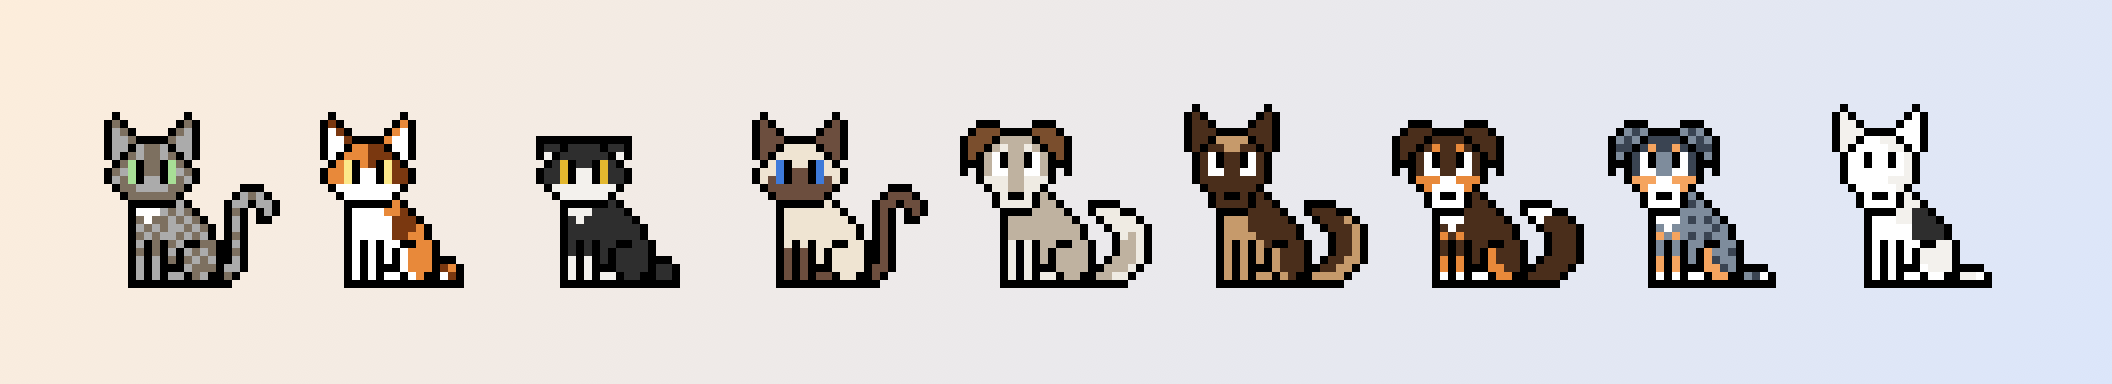
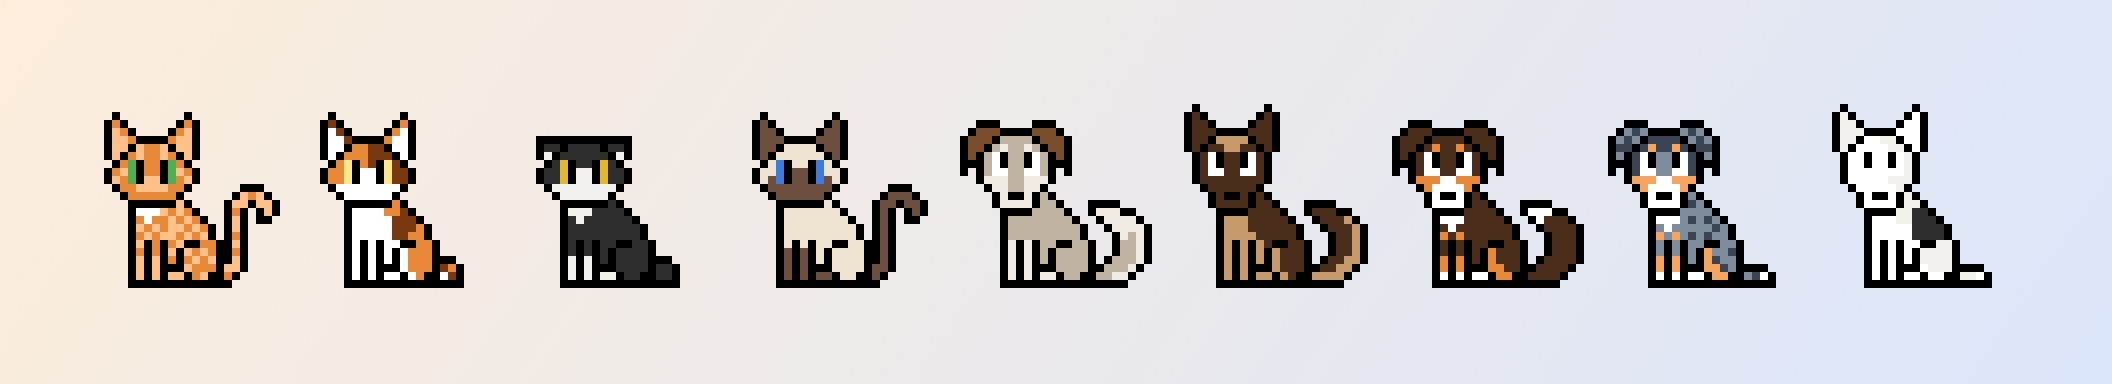
Screenshots: put an orange tabby first in the pet lineup

Changed region(s): [[0.0312, 0.3125, 0.1562, 0.75]]

diff --git a/CLAUDE.md b/CLAUDE.md
@@ -46,7 +46,7 @@ The agent has no Screen Recording permission, so the app has test launch argumen
   - `~/Library/Application Support/DesktopPet/Clipboard/`
 - Only write defaults (`defaults write com.nataliewiese.DesktopPet …`) while the app is **not running**, or the running app overwrites them.
 - Her current settings: Military time **off** (as of 2026-10-07; check before assuming).
-- Topsy's look (as of 2026-10-12). She's the first pet in `screenshots/pets.png`. Put her back after changing pets for screenshots:
+- Topsy's look (as of 2026-10-12). She was the first pet in `screenshots/pets.png` until an orange tabby replaced her. Put her back after changing pets for screenshots:
   - name `Topsy`, scale `4`
   - `character` and `character.cat` = `tortie.up-long` (cat, shape 1/4 "up-long", tortie pattern); `character.dog` = `dog.down-long`
   - `color.main` = `7D6F60` (grey-brown body), `color.secondary` = `ABABAB` (grey accents), `color.detail` = `A8DE96` (light green eyes), `color.ears` = `7A4E2E` (dog ears)
